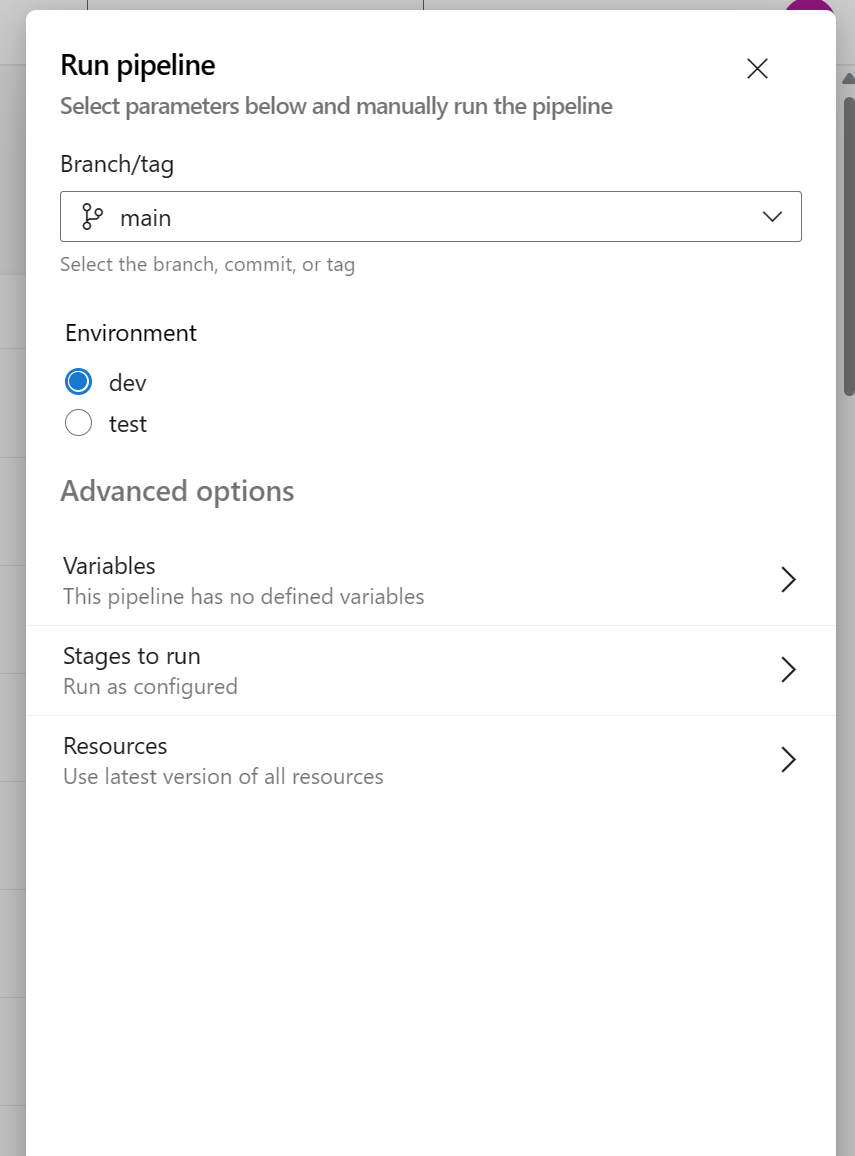
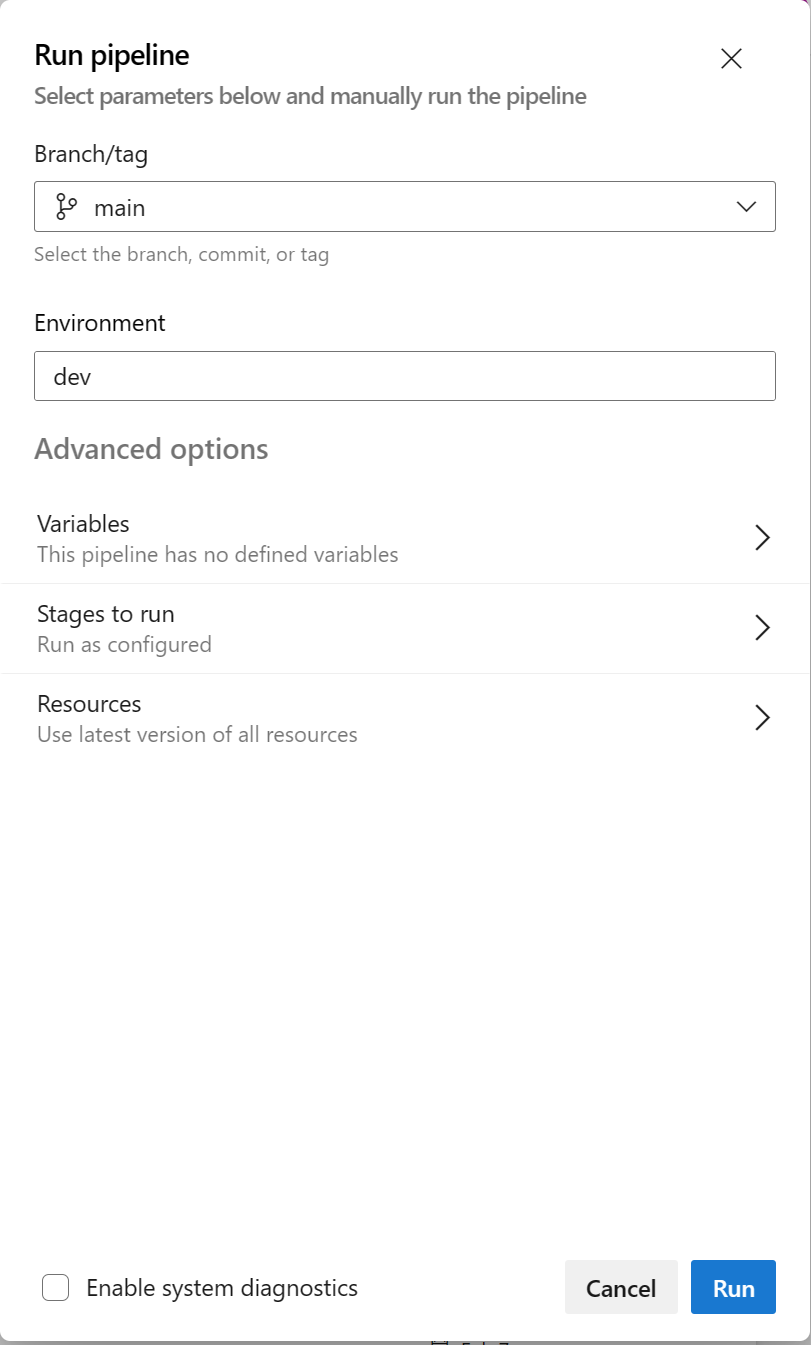
Merged PR 383: updating quickstart docs with images
updating quickstart docs with images

Changed region(s): [[0.0, 0.0, 1.0, 1.0], [0.0925, 0.9343, 0.4316, 0.9654], [0.709, 0.9343, 0.8015, 0.9654]]

diff --git a/docs/QuickStart/MetaDataAPI/MetaDataAPIDeploy.md b/docs/QuickStart/MetaDataAPI/MetaDataAPIDeploy.md
@@ -3,10 +3,10 @@
 ## Prerequisites
 
 ### Create service connections
-- **ARM Service connection** - This is needed to deploy the docker image to App Service. Name the service connection "arm_service_connection_{env}" (environments supported are dev and test), this is the format in which it is referred in the pipeline. 
+- **ARM Service connection** - This is needed to deploy the docker image to App Service. Name the service connection "arm_service_connection_{env}", this is the format in which it is referred in the pipeline. 
 * Note: {env} name should be same as used in the Pre-Deploy and Core infra steps.
 
-- **Docker Registry(ACR)** - This service connection is needed to login to the Axure Container Registry and push the metadata-api docker image to the registry. Name the service connection "acr_service_connection_{env}" (environments supported are dev and test), this is the format in which it is referred in the pipeline.
+- **Docker Registry(ACR)** - This service connection is needed to login to the Axure Container Registry and push the metadata-api docker image to the registry. Name the service connection "acr_service_connection_{env}", this is the format in which it is referred in the pipeline.
 
 **Note**: Refer this [article](https://learn.microsoft.com/en-us/azure/devops/pipelines/library/service-endpoints?view=azure-devops&tabs=yaml) for more details and steps to create a service connection.
  
@@ -14,13 +14,15 @@
 
 This pipeline pushes the MetaData API docker container in to the ACR and then deploys to a linux web app container in your azure resource group.
 
-1. [Go to your Azure devops pipelines link](https://dev.azure.com/chrysalis-innersource/Mobility%20Service%20Line/_build) in your favorite browser.
+1. Go to your [Azure devops pipelines](https://dev.azure.com/chrysalis-innersource/Mobility%20Service%20Line/_build) in your favorite browser.
 
 2. Click the pipeline named `avops-dataops-foundation-metadata-api-ci`.
 
 3. Click the blue colored Run Pipeline Option on the top right of the browser page.
 
 4. Select your branch name, fill up the environment name you selected in the core infra deploy and fill up the other required fields name from the azure portal. Finally, hit the blue Run button in the down right corner of the browser.
+
+![metadata-api-ci](./../../../metadata-api/.pipelines/images/metadata-api-ci.png)
 
 ## Verification of API
 * Go to the azure web app in your resource group.

diff --git a/docs/QuickStart/CoreInfraStructure/CoreInfraStructureDeploy.md b/docs/QuickStart/CoreInfraStructure/CoreInfraStructureDeploy.md
@@ -11,6 +11,16 @@
 4. subscription - Subscription ID of your Azure subscription
 5. TF_STORAGE_ACCOUNT_KEY - Access Key of your azure storage account that you have configured as your terraform remote backend.
 
+- To set the secerts follow these steps - 
+    1. On the AzDo project go to pipelines and select `avops-dataops-foundation-iac-cd`. 
+    1. Click on Edit 
+    ![edit_pipeline](./../../../core-infrastructure/.pipelines/images/edit_pipeline.png)
+    1. Click on Variables. 
+    ![pipeline_variable](./../../../core-infrastructure/.pipelines/images/variables.png)
+    1. Add the variable name and value and select the box `Keep this value secret`
+    ![add_seceret](./../../../core-infrastructure/.pipelines/images/add_seceret.png)
+    1. Click on `OK` and the secret will be added. 
+
 ### b. Update the terraform vars
 * Update the [terraform vars file](../../../core-infrastructure/terraform/root/terraform.tfvars) with the environment variable name you used in the Step 1 (Setting up Terraform backend)
 
@@ -18,7 +28,7 @@
 
 ### c. Pipeline steps
 
-1. Go to your Azure devops project (https://dev.azure.com/<ORG_NAME>/<PROJECT_NAME>) in your favorite browser.
+1. Go to your [Azure devops project](https://dev.azure.com/chrysalis-innersource/Mobility%20Service%20Line) in your favorite browser.
 
 2. Navigate to the Pipelines option in Azure Devops from the left menu options.
 
@@ -26,7 +36,9 @@
 
 4. Click the blue colored Run Pipeline Option on the top right of the browser page.
 
-5. Select your branch name, Environment and hit the blue Run button in the down right corner of the browser
+5. Select your branch name, Environment and hit the blue Run button in the down right corner of the browser.
+
+![iac-cd](./../../../core-infrastructure/.pipelines/images/infra-cd.png)
 
 6. Now relax and grab a cup a coffee and be right back at the pipeline run after 10-15 minutes. Check the status, if it's failed, go to the Troubleshooting steps as linked at the end of this page.
 
